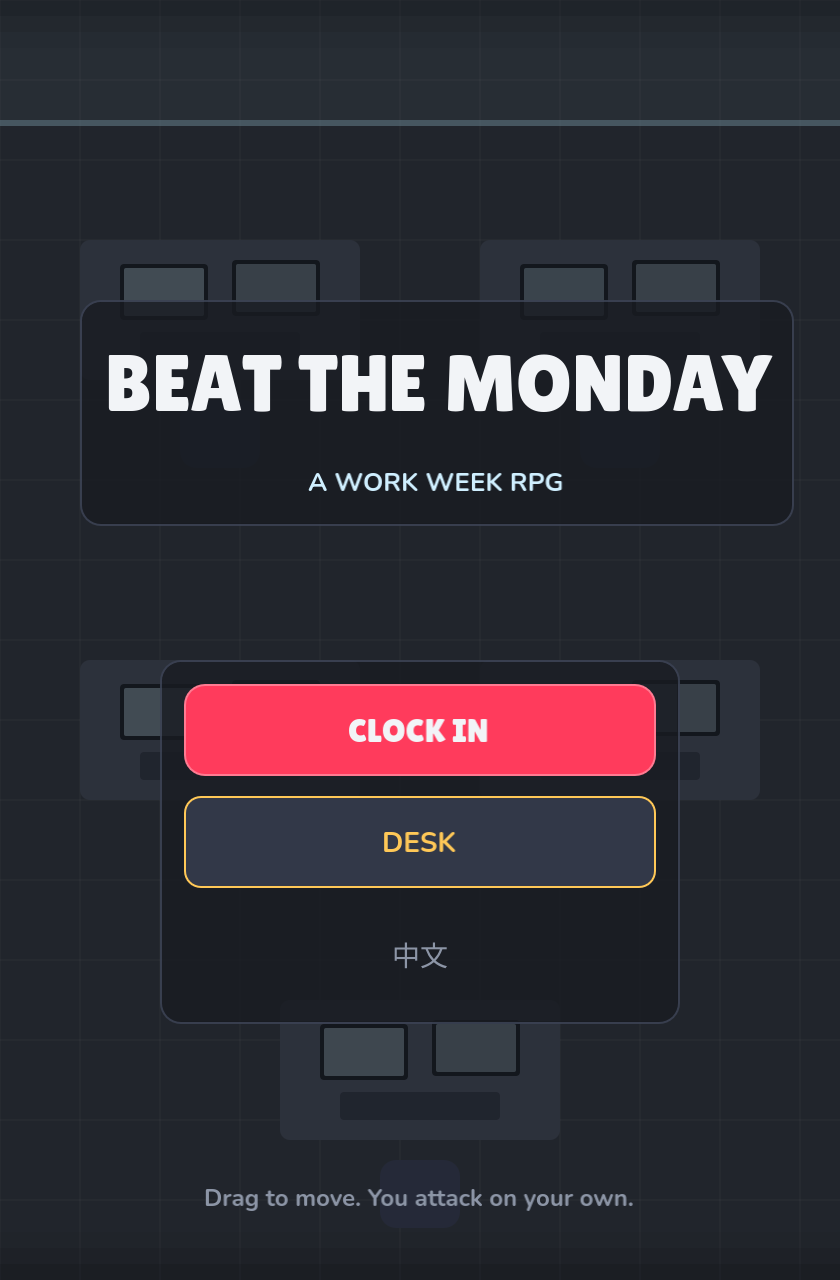
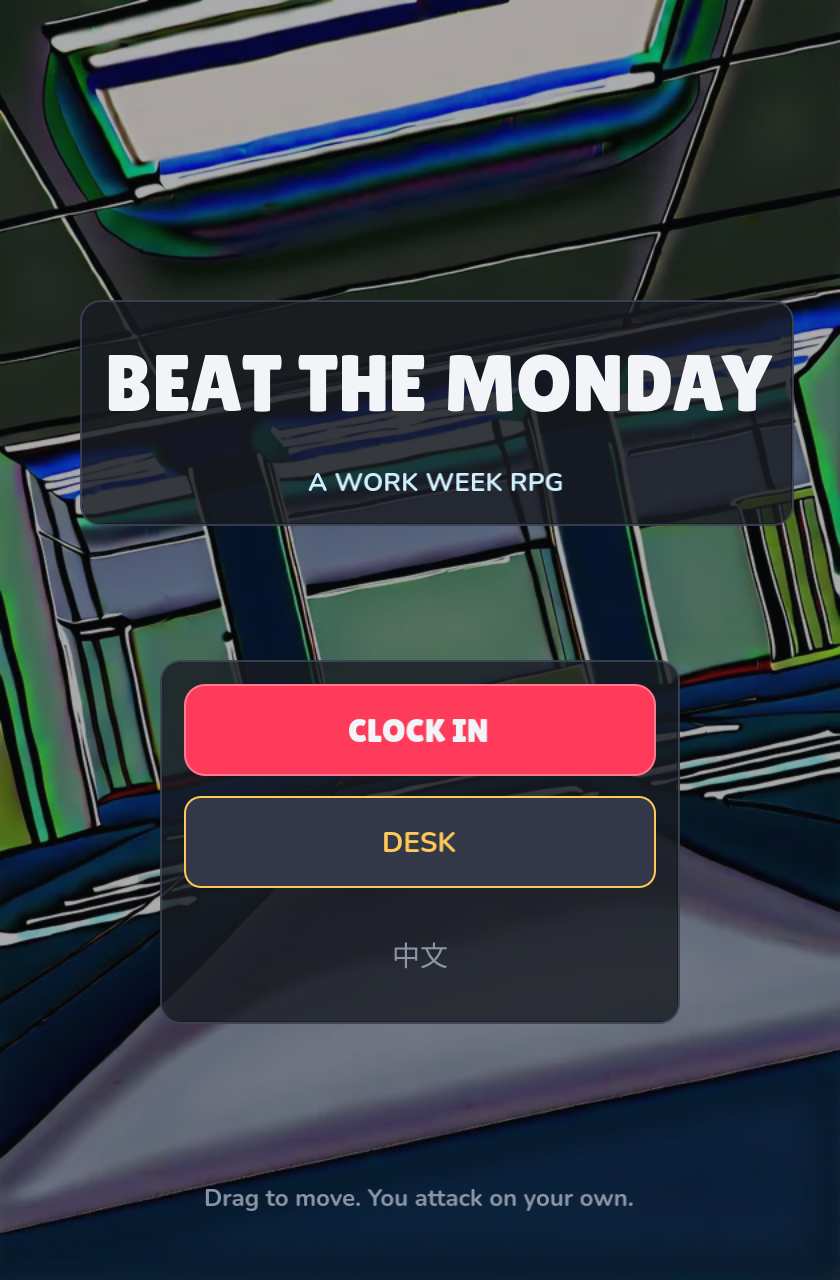
Beat the Monday: office plates, CJK on the web, sound, and the screenshot week
Seven plates from ops/beat_monday_art (Animagine, 3/4 high-angle rooms: the open-plan
floor, the buried desk, the all-hands hall, the meeting room, the server room, dawn,
Saturday) under the drawn entities, cooled and pushed back. The zh-Hans fallback now
survives the web export — ResourceCache holds resources weakly, so the FontFiles that
carried the Noto subset were freed before the Theme re-read them; the Theme is built
first and the fonts held. Synthesised cues for fire, rant, hit, hurt, pickup, level-up,
clear and going home early. tests/headless_web.py plays all five days in Chromium
(HEADLESS_OK), and the week board, desk and brief no longer draw over a stale day.

diff --git a/beat-monday-godot/tests/headless_web.py b/beat-monday-godot/tests/headless_web.py
@@ -22,7 +22,6 @@ SHOTS = PROJ / "shots"
 SHOTS.mkdir(exist_ok=True)
 for old in SHOTS.glob("*.png"):
     old.unlink()
-PORT = 8810 + (os.getpid() % 200)
 if not (WEB / "index.html").exists():
     sys.exit("no web build at %s — run ./build.sh" % WEB)
 
@@ -44,7 +43,8 @@ class Quiet(http.server.SimpleHTTPRequestHandler):
 
 
 socketserver.TCPServer.allow_reuse_address = True
-srv = socketserver.TCPServer(("127.0.0.1", PORT), Quiet)
+srv = socketserver.TCPServer(("127.0.0.1", 0), Quiet)   # port 0: the OS picks a free one
+PORT = srv.server_address[1]
 threading.Thread(target=srv.serve_forever, daemon=True).start()
 URL = "http://127.0.0.1:%d/index.html?dist=itch_web" % PORT
 fails = []

diff --git a/beat-monday/DESIGN.md b/beat-monday/DESIGN.md
@@ -89,3 +89,11 @@ frontend/arcade.html     the previous 2D fighter, kept playable, no longer the e
 
 Run: `python3 -m http.server 8765 --directory frontend` → http://127.0.0.1:8765/
 Tests: `node rpg-smoke.cjs` (whole week headless), `node monday-smoke.cjs` (kernel pool).
+
+## The Godot rebuild (2026-09-18)
+
+Blaze's decision: every title goes through an engine — the HTML builds read as web forms.
+`play/beat-monday-godot/` is this design in Godot 4.7 with a drawn office; this directory
+stays as the spec, and `beat-monday-godot/tests/conformance_gen.cjs` runs the core here to
+hold the port to the same numbers. The "Form (locked by PLAN.md)" section above describes
+the HTML version only.
